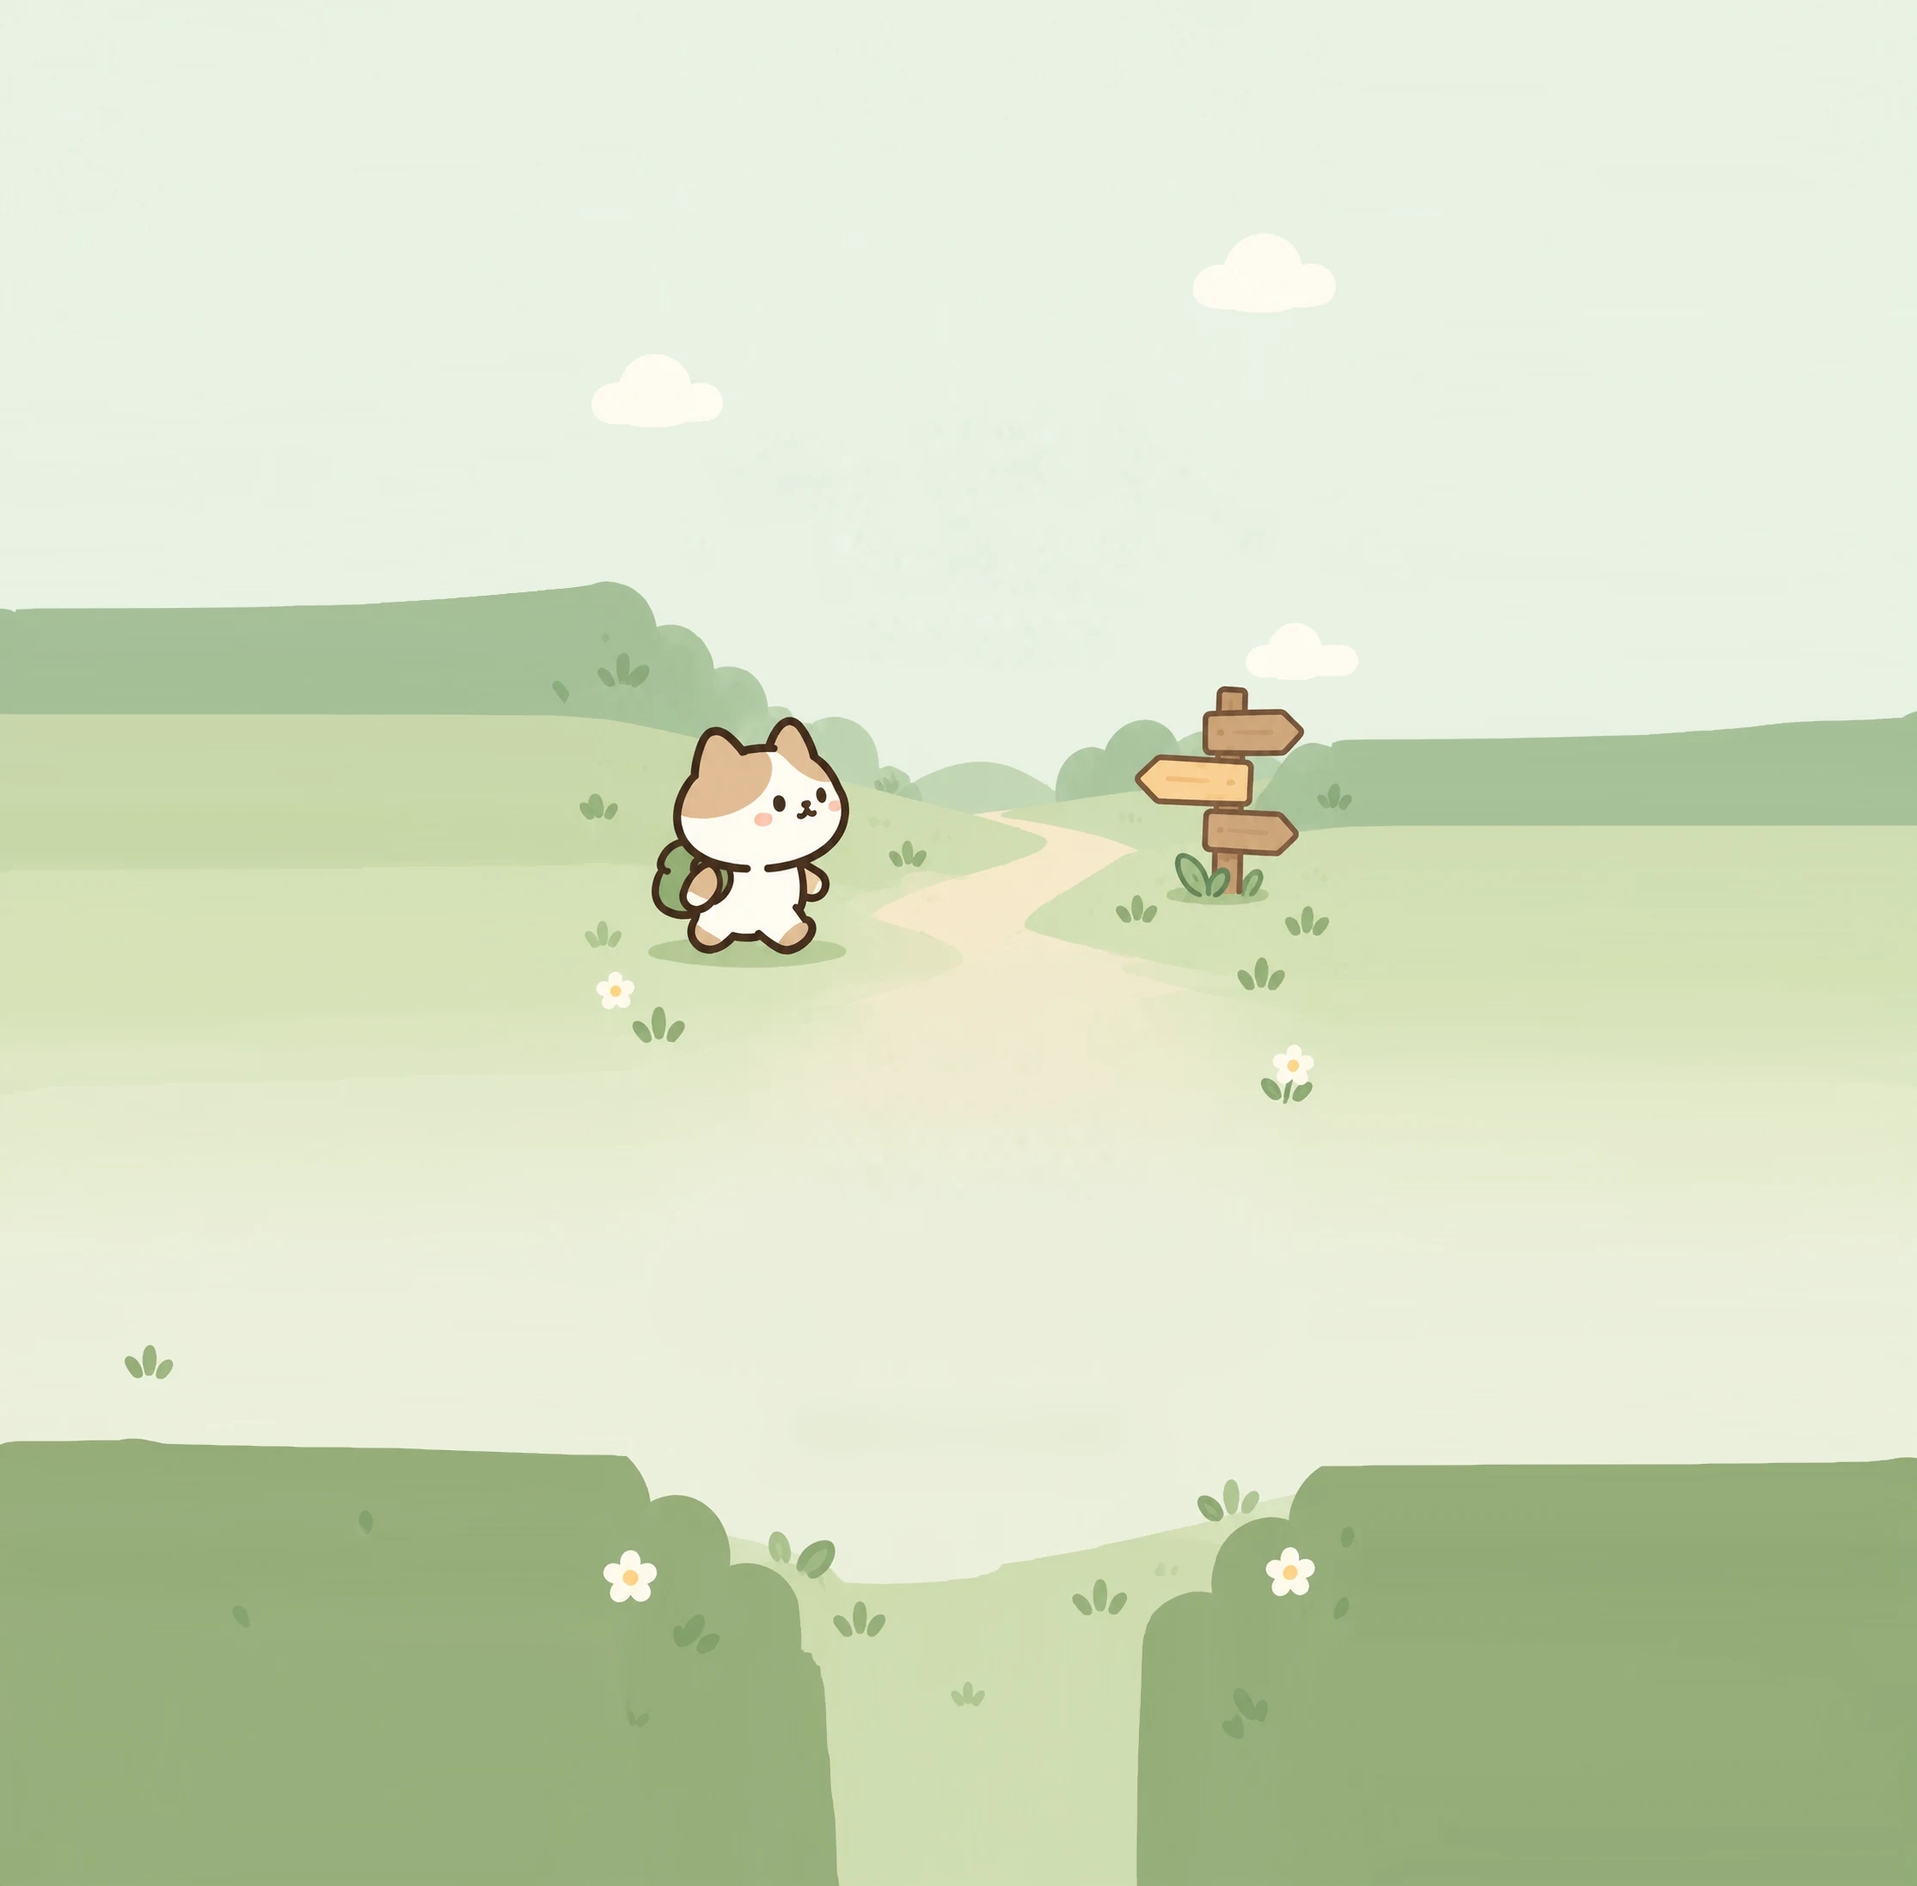
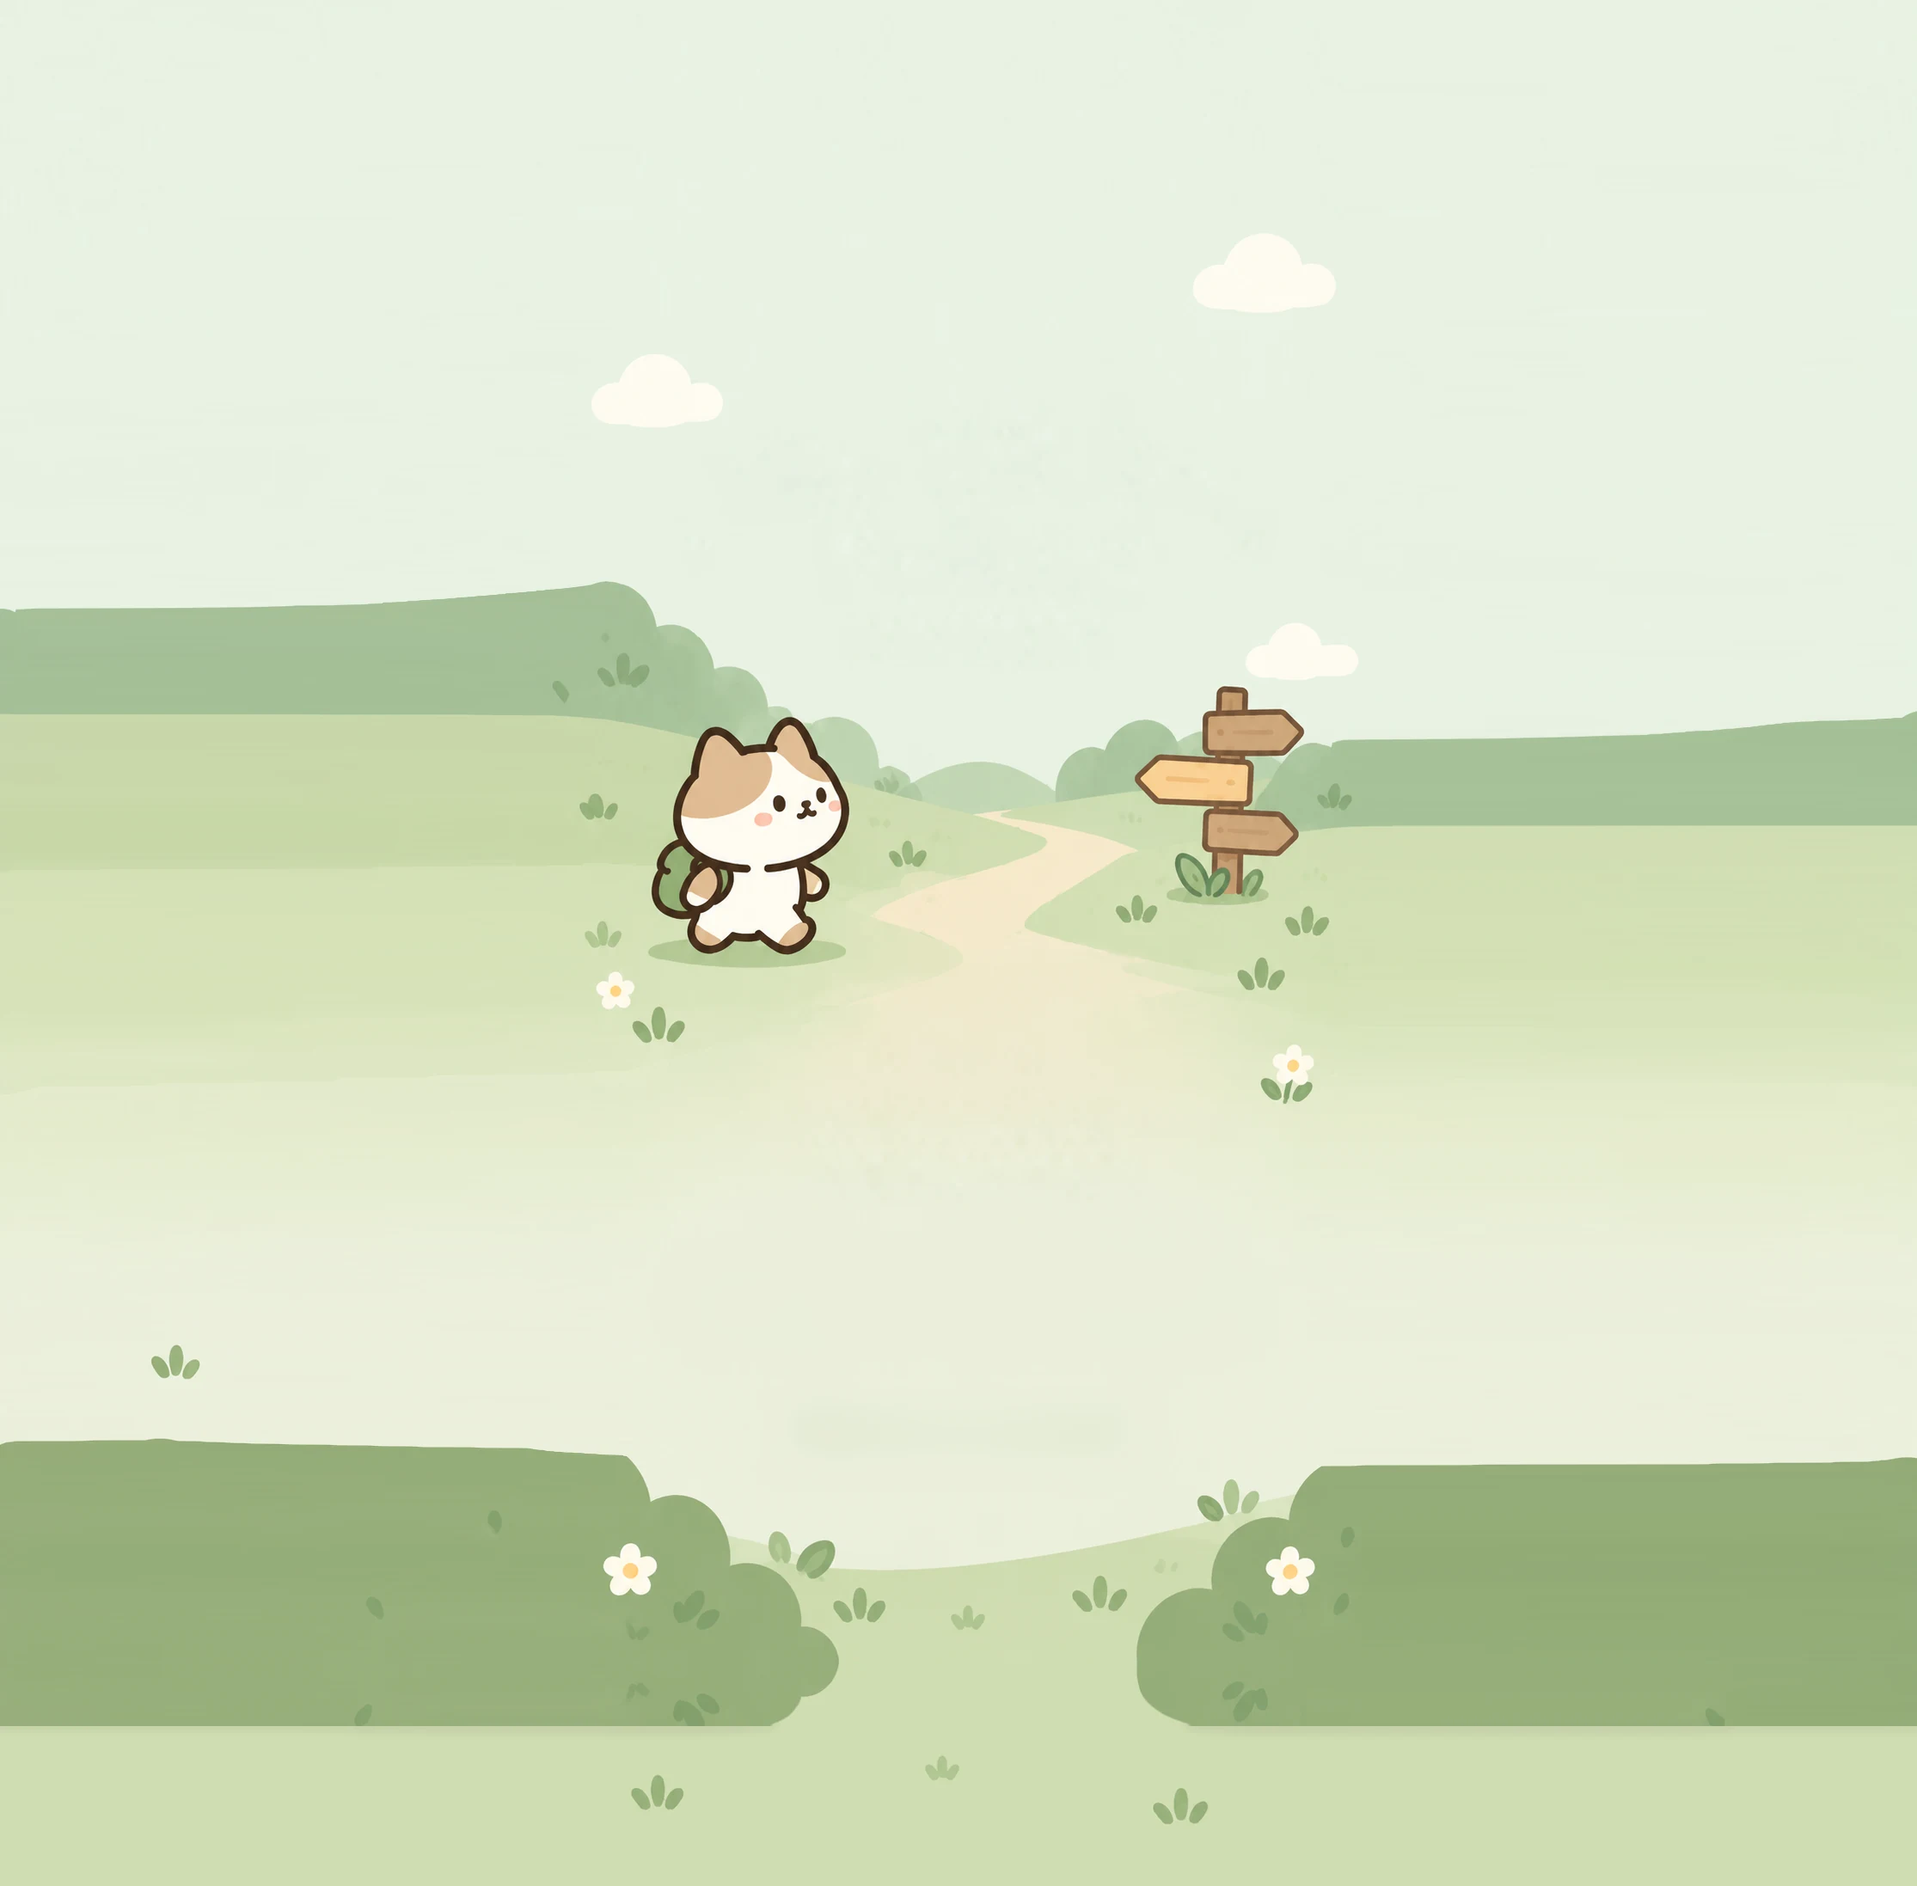
v5: bushes keep rounded shape + meadow continuation below; no position:fixed (iOS 26 Safari toolbar tint); ?v=5

diff --git a/css/style.css b/css/style.css
@@ -24,25 +24,30 @@
    Each extended canvas is pw x 1343 design units: the original sits at
    y = 159.77 inside it, centred horizontally. The narrowest canvas that still covers the
    screen width is picked per aspect ratio. */
-:root { --pw: 576; --scene: url("../assets/img/scene-576.webp?v=4"); --edge: url("../assets/img/edge-576.png?v=4"); }
-@media (min-aspect-ratio: 576.01/1024) { :root { --pw: 608; --scene: url("../assets/img/scene-608.webp?v=4"); --edge: url("../assets/img/edge-608.png?v=4"); } }
-@media (min-aspect-ratio: 608.01/1024) { :root { --pw: 640; --scene: url("../assets/img/scene-640.webp?v=4"); --edge: url("../assets/img/edge-640.png?v=4"); } }
-@media (min-aspect-ratio: 640.01/1024) { :root { --pw: 700; --scene: url("../assets/img/scene-700.webp?v=4"); --edge: url("../assets/img/edge-700.png?v=4"); } }
-@media (min-aspect-ratio: 700.01/1024) { :root { --pw: 768; --scene: url("../assets/img/scene-768.webp?v=4"); --edge: url("../assets/img/edge-768.png?v=4"); } }
-@media (min-aspect-ratio: 768.01/1024) { :root { --pw: 896; --scene: url("../assets/img/scene-896.webp?v=4"); --edge: url("../assets/img/edge-896.png?v=4"); } }
-@media (min-aspect-ratio: 896.01/1024) { :root { --pw: 1024; --scene: url("../assets/img/scene-1024.webp?v=4"); --edge: url("../assets/img/edge-1024.png?v=4"); } }
-@media (min-aspect-ratio: 1024.01/1024) { :root { --pw: 1180; --scene: url("../assets/img/scene-1180.webp?v=4"); --edge: url("../assets/img/edge-1180.png?v=4"); } }
-@media (min-aspect-ratio: 1180.01/1024) { :root { --pw: 1365; --scene: url("../assets/img/scene-1365.webp?v=4"); --edge: url("../assets/img/edge-1365.png?v=4"); } }
-@media (min-aspect-ratio: 1365.01/1024) { :root { --pw: 1580; --scene: url("../assets/img/scene-1580.webp?v=4"); --edge: url("../assets/img/edge-1580.png?v=4"); } }
-@media (min-aspect-ratio: 1580.01/1024) { :root { --pw: 1820; --scene: url("../assets/img/scene-1820.webp?v=4"); --edge: url("../assets/img/edge-1820.png?v=4"); } }
-@media (min-aspect-ratio: 1820.01/1024) { :root { --pw: 2048; --scene: url("../assets/img/scene-2048.webp?v=4"); --edge: url("../assets/img/edge-2048.png?v=4"); } }
-@media (min-aspect-ratio: 2048.01/1024) { :root { --pw: 2400; --scene: url("../assets/img/scene-2400.webp?v=4"); --edge: url("../assets/img/edge-2400.png?v=4"); } }
+:root { --pw: 576; --scene: url("../assets/img/scene-576.webp?v=5"); }
+@media (min-aspect-ratio: 576.01/1024) { :root { --pw: 608; --scene: url("../assets/img/scene-608.webp?v=5"); } }
+@media (min-aspect-ratio: 608.01/1024) { :root { --pw: 640; --scene: url("../assets/img/scene-640.webp?v=5"); } }
+@media (min-aspect-ratio: 640.01/1024) { :root { --pw: 700; --scene: url("../assets/img/scene-700.webp?v=5"); } }
+@media (min-aspect-ratio: 700.01/1024) { :root { --pw: 768; --scene: url("../assets/img/scene-768.webp?v=5"); } }
+@media (min-aspect-ratio: 768.01/1024) { :root { --pw: 896; --scene: url("../assets/img/scene-896.webp?v=5"); } }
+@media (min-aspect-ratio: 896.01/1024) { :root { --pw: 1024; --scene: url("../assets/img/scene-1024.webp?v=5"); } }
+@media (min-aspect-ratio: 1024.01/1024) { :root { --pw: 1180; --scene: url("../assets/img/scene-1180.webp?v=5"); } }
+@media (min-aspect-ratio: 1180.01/1024) { :root { --pw: 1365; --scene: url("../assets/img/scene-1365.webp?v=5"); } }
+@media (min-aspect-ratio: 1365.01/1024) { :root { --pw: 1580; --scene: url("../assets/img/scene-1580.webp?v=5"); } }
+@media (min-aspect-ratio: 1580.01/1024) { :root { --pw: 1820; --scene: url("../assets/img/scene-1820.webp?v=5"); } }
+@media (min-aspect-ratio: 1820.01/1024) { :root { --pw: 2048; --scene: url("../assets/img/scene-2048.webp?v=5"); } }
+@media (min-aspect-ratio: 2048.01/1024) { :root { --pw: 2400; --scene: url("../assets/img/scene-2400.webp?v=5"); } }
 
-/* The page never scrolls in any direction. */
+/* The page never scrolls in any direction. Nothing on this page is
+   position:fixed: iOS 26 Safari paints a solid colour behind its floating
+   top/bottom bars taken from the background-color of fixed elements that
+   touch the viewport edge (and ignores theme-color), which hid the artwork.
+   Without fixed elements it falls back to the root background colour at the
+   very top and lets normal content show through the translucent bottom bar.
+   Scrolling is prevented by overflow:hidden here plus the touch/scroll lock
+   script in index.html. */
 html,
 body {
-  position: fixed;
-  inset: 0;
   width: 100%;
   height: 100%;
   margin: 0;
@@ -53,10 +58,10 @@ body {
 }
 html {
   /* light sky green sampled from the top of the artwork (#e9f2e3) */
-  background: var(--sky-top);
+  background-color: var(--sky-top);
 }
 body {
-  background: var(--sky-top);
+  background-color: var(--sky-top);
   font-family: "Chiron GoRound TC", "Noto Sans TC", "PingFang TC", "Microsoft JhengHei", system-ui, sans-serif;
   -webkit-font-smoothing: antialiased;
   -webkit-tap-highlight-color: transparent;
@@ -66,12 +71,12 @@ body {
   -webkit-touch-callout: none;
 }
 
-/* Fixed art layer. It covers the LARGE viewport (100lvh: the whole screen,
-   including what sits under iOS Safari's floating translucent toolbars) plus
-   a bleed above and below, so the artwork runs to the physical edges of the
-   screen. Being position:fixed with overflow:hidden it never creates scroll. */
+/* Art layer (absolutely positioned, NOT fixed, no background colour of its
+   own). It is as tall as the LARGE viewport (100lvh: the whole screen,
+   including what sits under Safari's floating translucent toolbars) plus a
+   bleed, so the artwork runs to the physical bottom edge of the screen. */
 .app {
-  --bleed: calc(160px + env(safe-area-inset-top, 0px) + env(safe-area-inset-bottom, 0px));
+  --bleed: calc(120px + env(safe-area-inset-bottom, 0px));
   --vis: 100vh;                                     /* visible area for the composition */
   --u: min(calc(100vw / 576), calc(var(--vis) / 1024));
   --extra: calc(var(--vis) - 1024 * var(--u));
@@ -79,21 +84,15 @@ body {
      panorama is picked from the aspect ratio; when the toolbars shrink the
      visible height it may need a few % of horizontal stretch) */
   --cw: max(calc(var(--pw) * var(--u)), 100vw);
-  position: fixed;
+  position: absolute;
   left: 0;
   right: 0;
-  top: calc(-1 * var(--bleed));
-  height: calc(100vh + 2 * var(--bleed));
-  height: calc(100lvh + 2 * var(--bleed));
+  top: 0;
+  height: calc(100vh + var(--bleed));
+  height: calc(max(100%, 100lvh) + var(--bleed));
   margin: 0;
   padding: 0;
   overflow: hidden;
-  /* outside the extended canvas: sky above, the canvas' own bottom row
-     (bushes / grass) continued below, never a flat band */
-  background:
-    linear-gradient(var(--sky-top) 0 50%, transparent 50%),
-    var(--edge) 50% 0 / var(--cw) 1px repeat-y,
-    var(--sky-top);
 }
 @supports (height: 100dvh) {
   /* keep the whole original composition inside the visible (dynamic) viewport
@@ -107,7 +106,7 @@ body {
   height: calc(1024 * var(--u));
   left: calc((100vw - 576 * var(--u)) / 2);
   /* leftover visible height: a bit more above (open sky) than below (bushes) */
-  top: calc(var(--bleed) + max(calc(var(--extra) * 0.5), min(calc(var(--extra) * 0.55), calc(159.7 * var(--u)))));
+  top: calc(max(calc(var(--extra) * 0.5), min(calc(var(--extra) * 0.55), calc(159.7 * var(--u)))));
 }
 
 .scene {
@@ -117,6 +116,19 @@ body {
   width: var(--cw);
   height: calc(1343.02 * var(--u));
   background: var(--scene) 0 0 / 100% 100% no-repeat;
+  pointer-events: none;
+}
+
+/* Below the extended canvas: open meadow (tiles in both directions) with a
+   few grass tufts, continuing the canvas' own bottom edge, down to the
+   physical bottom of the screen. */
+.ground {
+  position: absolute;
+  left: calc((576 * var(--u) - 100vw) / 2 - 2px);
+  width: calc(100vw + 4px);
+  top: calc(1182.5 * var(--u));
+  height: calc(100lvh + 200px);
+  background: #d0ddb2 url("../assets/img/ground.png?v=5") 50% 0 / calc(576 * var(--u)) calc(240 * var(--u)) repeat;
   pointer-events: none;
 }
 

diff --git a/index.html b/index.html
@@ -9,18 +9,20 @@
   <link rel="preconnect" href="https://fonts.googleapis.com" />
   <link rel="preconnect" href="https://fonts.gstatic.com" crossorigin />
   <link href="https://fonts.googleapis.com/css2?family=Fredoka:wdth,wght@75..125,600&family=Chiron+GoRound+TC:wght@500;600;700&display=swap" rel="stylesheet" />
-    <link rel="stylesheet" href="css/style.css?v=4" />
+    <link rel="stylesheet" href="css/style.css?v=5" />
 </head>
 <body>
   <main class="app" aria-labelledby="title">
     <div class="stage">
       <!-- scenery: the original 576x1024 artwork extended outward on every side -->
       <div class="scene" aria-hidden="true"></div>
+      <!-- meadow continuing below the canvas, to the physical bottom of the screen -->
+      <div class="ground" aria-hidden="true"></div>
 
       <!-- title block -->
       <header class="title-block anchor-top-group">
-        <img class="deco spark" src="assets/img/spark-l.png?v=4" alt="" style="--x:88;--y:206;--w:29" />
-        <img class="deco spark" src="assets/img/spark-r.png?v=4" alt="" style="--x:486;--y:204;--w:26" />
+        <img class="deco spark" src="assets/img/spark-l.png?v=5" alt="" style="--x:88;--y:206;--w:29" />
+        <img class="deco spark" src="assets/img/spark-r.png?v=5" alt="" style="--x:486;--y:204;--w:26" />
         <h1 id="title" class="title" lang="en" aria-label="Who Will You Follow?">
           <span class="title__line title__line--1" aria-hidden="true"><span class="ch" style="--r:-10.9;--dy:17.6">W</span><span class="ch" style="--r:-7.6;--dy:8.5">h</span><span class="ch" style="--r:-5.3;--dy:4.1">o</span><span class="sp"> </span><span class="ch" style="--r:-1.2;--dy:0.2">W</span><span class="ch" style="--r:1.5;--dy:0.3">i</span><span class="ch" style="--r:2.7;--dy:1.1">l</span><span class="ch" style="--r:4.0;--dy:2.4">l</span><span class="sp"> </span><span class="ch" style="--r:6.9;--dy:7.0">Y</span><span class="ch" style="--r:9.4;--dy:13.1">o</span><span class="ch" style="--r:11.7;--dy:20.1">u</span></span>
           <span class="title__line title__line--2" aria-hidden="true"><span class="ch" style="--r:-2;--dy:0">F</span><span class="ch" style="--r:0;--dy:-1">o</span><span class="ch">l</span><span class="ch">l</span><span class="ch" style="--r:0;--dy:-1">o</span><span class="ch" style="--r:2;--dy:1">w</span><span class="ch" style="--r:8;--dy:3">?</span></span>
@@ -30,7 +32,7 @@
 
       <!-- welcome + actions -->
       <section class="intro">
-        <img class="sprout" src="assets/img/sprout.png?v=4" alt="" />
+        <img class="sprout" src="assets/img/sprout.png?v=5" alt="" />
         <p class="welcome">歡迎參加幸福小組<br />一齊參加遊戲啦</p>
         <!-- TODO: characters/ page is not built yet -->
         <a class="btn btn--primary" href="characters/">

diff --git a/README.md b/README.md
@@ -12,5 +12,11 @@ Local preview: `python3 -m http.server 8000`, then open http://localhost:8000
 Layout: the original 576×1024 composition is always fully visible ("contain", scaled by
 `min(width/576, height/1024)`), and the rest of the screen is covered by the same artwork extended
 outward on every side (`assets/img/scene-<width>.webp`, content-aware seam insertion; the narrowest
-one that covers the screen is picked per aspect ratio). The page never scrolls.
+one that covers the screen is picked per aspect ratio). Below the original bushes the canvas
+continues with the bushes' rounded bases sitting on the meadow, and `assets/img/ground.png`
+(meadow + grass tufts, tiled) fills the rest down to the physical bottom of the screen
+(100lvh, i.e. also under iOS Safari's translucent toolbars).
+No element is `position: fixed` (iOS 26 Safari would paint that element's background colour
+behind its toolbars instead of the artwork); the page never scrolls (`overflow: hidden` on
+html/body plus a touch/scroll lock script).
 Asset URLs carry `?v=N` for cache-busting; bump it on each visual change.
